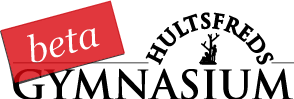
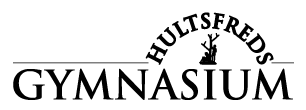
beta added, bugfixes

diff --git a/css/style.css b/css/style.css
@@ -2983,7 +2983,7 @@ article .block-wrapper .contacts-wrapper {
   margin-right: 0 !important;
 }
 
-.flush--bottom, .contacts-wrapper .contacts h2, footer .footer-div .footer-container h2, .top-wrapper .top .top-links-wrapper .quicklinks-wrapper .quicklinks, .module-wrapper.nyheter-module-wrapper .items .item .item-content h2, .program-icons, .related-wrapper h2 {
+.flush--bottom, .contacts-wrapper h2, footer .footer-div .footer-container h2, .top-wrapper .top .top-links-wrapper .quicklinks-wrapper .quicklinks, .module-wrapper.nyheter-module-wrapper .items .item .item-content h2, .program-icons, .related-wrapper h2 {
   margin-bottom: 0 !important;
 }
 
@@ -3338,11 +3338,11 @@ article .block-wrapper .contacts-wrapper {
   background-color: black;
 }
 
-.black-40, .home .top-wrapper .top .logo-space {
+.black-40 {
   background-color: rgba(0, 0, 0, 0.4);
   color: white;
 }
-.black-40 a, .home .top-wrapper .top .logo-space a {
+.black-40 a {
   color: white;
 }
 
@@ -3350,11 +3350,11 @@ article .block-wrapper .contacts-wrapper {
   background-color: rgba(0, 0, 0, 0.4);
 }
 
-.ie7 .black-40, .ie7 .home .top-wrapper .top .logo-space, .home .top-wrapper .top .ie7 .logo-space, ie8 .black-40, ie8 .home .top-wrapper .top .logo-space, .home .top-wrapper .top ie8 .logo-space {
+.ie7 .black-40, ie8 .black-40 {
   background-color: black;
   color: white;
 }
-.ie7 .black-40 a, .ie7 .home .top-wrapper .top .logo-space a, .home .top-wrapper .top .ie7 .logo-space a, ie8 .black-40 a, ie8 .home .top-wrapper .top .logo-space a, .home .top-wrapper .top ie8 .logo-space a {
+.ie7 .black-40 a, ie8 .black-40 a {
   color: white;
 }
 .ie7 .black-40-background, ie8 .black-40-background {
@@ -3714,13 +3714,13 @@ article .block-wrapper .contacts-wrapper {
   background-color: #14a585;
 }
 
-.green-text, .contacts-wrapper .contacts h2, h1,
+.green-text, .contacts-wrapper h2, h1,
 .header,
 .content-wrapper .author h2,
 .single-hugy_kontakt .content-wrapper .contact h2 {
   color: #14a585;
 }
-.green-text a, .contacts-wrapper .contacts h2 a, h1 a,
+.green-text a, .contacts-wrapper h2 a, h1 a,
 .header a,
 .content-wrapper .author h2 a,
 .single-hugy_kontakt .content-wrapper .contact h2 a {
@@ -5084,7 +5084,7 @@ article .block-wrapper .contacts-wrapper {
   margin-bottom: 24px !important;
   padding-bottom: 24px !important;
 }
-.contacts-wrapper .contacts h2 {
+.contacts-wrapper h2 {
   font-weight: normal;
 }
 .contacts-wrapper .contacts .contact .contact-data {
@@ -5109,7 +5109,7 @@ article .block-wrapper .contacts-wrapper {
   display: block;
 }
 
-.italic, .contacts-wrapper .contacts h2, h1,
+.italic, .contacts-wrapper h2, h1,
 .header,
 .content-wrapper .author h2,
 .single-hugy_kontakt .content-wrapper .contact h2, footer .footer-div .footer-container h2, .main-menu-wrapper .menu-head, .related-wrapper h2, .related-wrapper .related .heading {
@@ -5133,6 +5133,15 @@ article .block-wrapper .contacts-wrapper {
 }
 .pre-footer-padding {
   height: 0px;
+}
+
+#betaicon {
+  top: 0px;
+  position: fixed;
+  cursor: pointer;
+  right: 30%;
+  text-align: center;
+  z-index: 250;
 }
 
 .up-icon {
@@ -5369,9 +5378,6 @@ article.page .slideshow-wrapper:after {
   width: 100%;
 }
 
-.contacts-wrapper .contacts .contact .header-wrapper.contact-data .logo-space, .header-wrapper.white .logo-space, .module-wrapper.facebook-module-wrapper .header-wrapper.fb-feed-item .logo-space, .slideshow-wrapper .header-wrapper.slideshow .logo-space {
-  background-color: rgba(255, 255, 255, 0.4) !important;
-}
 .contacts-wrapper .contacts .contact .header-wrapper.contact-data .top-wrapper, .header-wrapper.white .top-wrapper, .module-wrapper.facebook-module-wrapper .header-wrapper.fb-feed-item .top-wrapper, .slideshow-wrapper .header-wrapper.slideshow .top-wrapper {
   background-color: transparent !important;
 }
@@ -5466,7 +5472,6 @@ article.page .slideshow-wrapper:after {
   position: relative;
 }
 .home .top-wrapper .top .logo-space {
-  border-radius: 6px;
   left: 36px;
   padding: 12px;
   position: absolute;

diff --git a/css/ui/_contact.scss b/css/ui/_contact.scss
@@ -22,16 +22,16 @@
 			padding-bottom: 24px!important;
 		}
 	}
+	h2 {
+		@extend .italic;
+		@extend .green-text;
+		@extend .flush--bottom;
+		font-weight: normal;
+	}
 	.contacts {
 		@extend .black-text;
 		@extend .green-30-background;
 		@extend .islet;
-		h2 {
-			@extend .italic;
-			@extend .green-text;
-			@extend .flush--bottom;
-			font-weight: normal;
-		}
 		.contact {
 			.contact-data {
 				@extend .islet;

diff --git a/css/ui/_home.scss b/css/ui/_home.scss
@@ -17,14 +17,12 @@
 			position: relative;
 			
 			.logo-space {
-				border-radius: 6px;
 				left: 36px;
 				padding: 12px;
 				position: absolute;
 				top: 36px;
 				width: auto;
 				z-index: 100;
-				@extend .black-40;
 			}
 		}
 	}

diff --git a/css/ui/_footer.scss b/css/ui/_footer.scss
@@ -4,6 +4,14 @@
 .pre-footer {
 	@extend .black;
 }
+#betaicon {
+	top: 0px;
+	position: fixed;
+	cursor: pointer;
+	right: 30%;
+	text-align: center;
+	z-index: 250;
+}
 .up-icon {
 	bottom: 20px;
 	position: fixed;

diff --git a/css/ui/_header.scss b/css/ui/_header.scss
@@ -18,9 +18,6 @@
 }
 .white.header-wrapper {
 	@extend .white;
-	.logo-space {
-		background-color: rgba(255, 255, 255, 0.4)!important;
-	}
 	.top-wrapper {
 		background-color: transparent!important;
 	}

diff --git a/external/hugy-utilities.php b/external/hugy-utilities.php
@@ -172,9 +172,17 @@
 			if (is_single($page_id)) {
 				$page = get_post($page_id);
 				$retValue = "<a href='" . get_home_url() . "' title='Tillbaka hem'><span class='home-icon'></span></a> / ";
-				$archive = HuGy::get_hugy_nyheter_page();
-				if ($archive != '')
-					$retValue .= "<a href='" . get_page_link($archive->ID) . "' title='" . $archive->post_title . "'>" . $archive->post_title . "</a> / ";
+				if ($page->post_type == 'post') {
+					$archive = HuGy::get_hugy_nyheter_page();
+					if ($archive != '')
+						$retValue .= "<a href='" . get_page_link($archive->ID) . "' title='" . $archive->post_title . "'>" . $archive->post_title . "</a> / ";
+				}
+				if ($page->post_type == 'hugy_kontakt') {
+					//$archive = HuGy::get_hugy_nyheter_page();
+					//if ($archive != '')
+						//$retValue .= "<a href='" . get_page_link($archive->ID) . "' title='" . $archive->post_title . "'>" . $archive->post_title . "</a> / ";
+					$retValue .= " kontakt / ";
+				}
 				$retValue .= "<a href='" . get_page_link($page->ID) . "' title='" . $page->post_title . "'>" . $page->post_title . "</a>";
 			}
 			return $retValue;

diff --git a/parts/shared/footer.php b/parts/shared/footer.php
@@ -6,6 +6,7 @@
 	echo "<div class='pre-footer'>" . HuGy::get_main_navigation() . "</div>";
 	echo "<div class='pre-footer-program'>" . HuGy::get_program_icons() . "</div>"; ?>
 	<div class="up-icon"></div>
+	<div id="betaicon"><a href='<?php echo get_site_url() ?>/betapage'><img src='<?php echo get_stylesheet_directory_uri() ?>/images/beta.png' /></a></div>
 	<footer>
 		<div class="footer-div">
 		<?php if ( is_active_sidebar( 'footer' ) ) : ?>

diff --git a/page.php b/page.php
@@ -18,7 +18,7 @@
 		<h1><?php the_title(); ?></h1>
 		<?php echo HuGy::get_author(); ?>
 		<?php the_content(); ?>
-		<?php //comments_template( '', true ); ?>
+		<?php if (is_page("betapage")) comments_template( '', true ); ?>
 	</div>
 	<div class="block-wrapper">
 	<?php echo HuGy::get_contacts(get_the_ID()); ?><?php echo HuGy::get_related(get_the_ID()); ?>

diff --git a/page-hugy-nyheter.php b/page-hugy-nyheter.php
@@ -14,7 +14,7 @@
 		<?php echo HuGy::get_slideshow(get_field('hg_slideshow',get_the_ID()),'program slideshow','slideshow'); ?>
 	</div>
 	<div class='content-wrapper'>
-		<h1>Nyheter</h1>
+		<h1><?php the_title(); ?></h1>
 		<?php if ( have_posts() ) while ( have_posts() ) : the_post(); ?>
 		<?php the_content(); ?>
 		<?php endwhile; ?>
